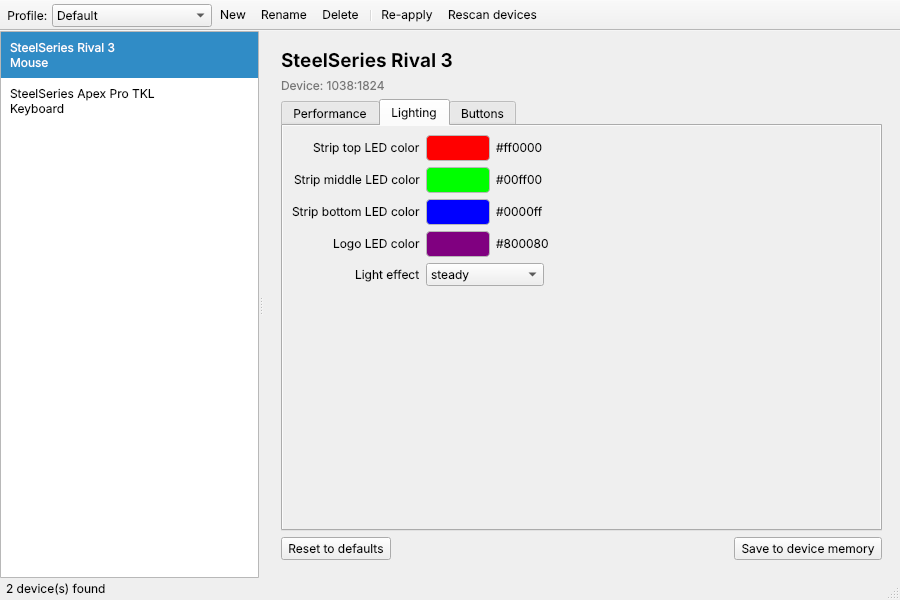
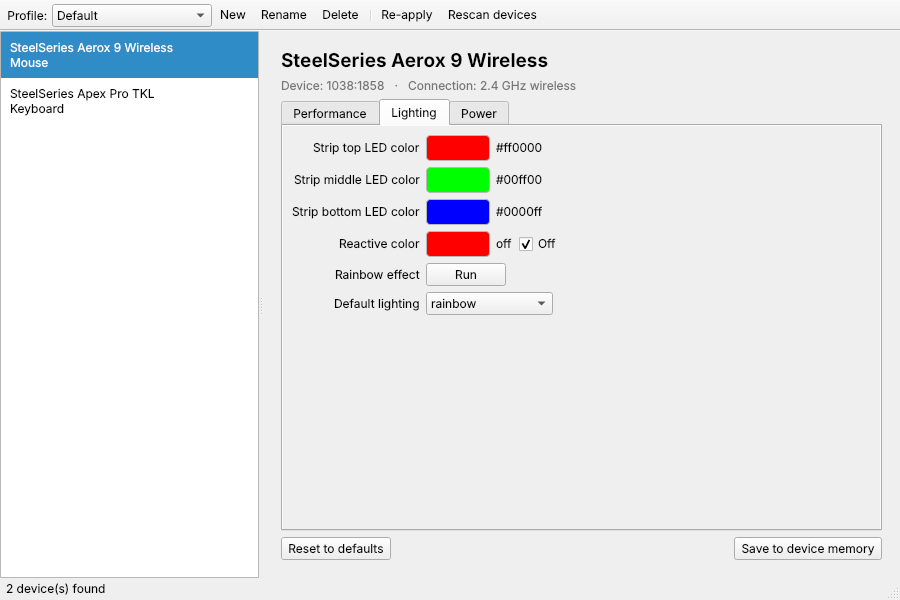
Tailor for Aerox 9 Wireless and Apex Pro Gen 3
- Treat a wireless mouse's cable and dongle connections as one device
  (shared profile values, cable preferred when both are present)
- Show connection mode; refresh battery level every minute
- New Power tab for sleep/dim timers, with units and 'Never' for 0
- Lay DPI presets out in a grid so five presets fit
- Hint that Apex Pro Gen 3 needs OpenRGB 1.0+ when no keyboard is found
- README: per-device capabilities and Fedora setup

Claude-Session: https://claude.ai/code/session_01Nd8wdY2TB8MpUgUSGngoNX

diff --git a/steelpanel/backends/rival.py b/steelpanel/backends/rival.py
@@ -33,11 +33,29 @@ BUTTON_ACTIONS = [
 
 _LIGHTING_HINTS = ("color", "light", "led", "rainbow", "reactive", "gradient")
 _PERFORMANCE_HINTS = ("sensitivity", "dpi", "polling", "angle", "lift", "acceleration")
+_POWER_HINTS = ("sleep", "dim", "timer", "battery")
+# rivalcfg puts units in descriptions, e.g. "... (minutes, 0 = disable)".
+_UNITS = {"minutes": "min", "seconds": "s", "ms": "ms", "Hz": "Hz", "%": "%"}
+
+# Wireless mice have one rivalcfg profile per connection, e.g.
+# "SteelSeries Aerox 9 Wireless (wired mode)" and "... (2.4 GHz wireless mode)".
+_MODE_SUFFIX = re.compile(r"\s*\(([^()]*\bmode)\)\s*$")
+
+
+def split_connection(model_name: str) -> tuple[str, str | None]:
+    """Split a rivalcfg model name into (device name, connection mode)."""
+    m = _MODE_SUFFIX.search(model_name)
+    if not m:
+        return model_name, None
+    mode = m.group(1).replace("\xa0", " ")
+    return model_name[: m.start()], mode[: -len(" mode")].strip()
 
 
 def _group_for(key: str) -> str:
     if key == "buttons_mapping":
         return model.MAPPING
+    if any(h in key for h in _POWER_HINTS):
+        return model.POWER
     if any(h in key for h in _LIGHTING_HINTS):
         return model.LIGHTING
     if any(h in key for h in _PERFORMANCE_HINTS):
@@ -110,7 +128,13 @@ def settings_from_profile(profile: dict) -> list[Setting]:
             s = Setting(kind=model.CHOICE, choices=list(info["choices"].keys()), **common)
         elif vt in ("range", "range_choice"):
             lo, hi, step = info["input_range"]
-            s = Setting(kind=model.RANGE, minimum=lo, maximum=hi, step=step, **common)
+            desc = common["description"]
+            unit = next((u for word, u in _UNITS.items() if f"({word}" in desc), "")
+            s = Setting(
+                kind=model.RANGE, minimum=lo, maximum=hi, step=step, unit=unit,
+                minimum_label="Never" if lo == 0 and "0 = disable" in desc else "",
+                **common,
+            )
         elif vt in ("multidpi_range", "multidpi_range_choice", "multidpi_range_choice_xy"):
             lo, hi, step = info["input_range"]
             default = info.get("default")
@@ -141,8 +165,10 @@ class RivalMouse(Device):
 
     def __init__(self, mouse):
         self._mouse = mouse
-        self.name = mouse.name
-        self.id = f"mouse:{mouse.vendor_id:04x}:{mouse.product_id:04x}"
+        self.name, self.connection = split_connection(mouse.name)
+        # Keyed by name, not USB id, so a wireless mouse keeps one set of
+        # profile values whether it is used over the cable or the dongle.
+        self.id = f"mouse:{self.name}"
         self.supports_onboard_save = "save_command" in mouse.mouse_profile
         self._settings = settings_from_profile(mouse.mouse_profile)
         self._by_key = {s.key: s for s in self._settings}
@@ -169,6 +195,8 @@ class RivalMouse(Device):
 
     def info(self) -> dict[str, str]:
         lines = {"Device": f"{self._mouse.vendor_id:04x}:{self._mouse.product_id:04x}"}
+        if self.connection:
+            lines["Connection"] = self.connection
         try:
             fw = self._mouse.firmware_version
             if fw and fw.strip("0.") != "":  # all-zero means unknown
@@ -199,12 +227,22 @@ class RivalBackend(Backend):
         if rivalcfg is None:
             result.problems.append("rivalcfg is not installed: mouse support disabled.")
             return result
-        seen = set()
+        plugged = {}
         for dev in rival_devices.list_plugged_devices():
-            ids = (dev["vendor_id"], dev["product_id"])
-            if ids in seen:
+            plugged.setdefault((dev["vendor_id"], dev["product_id"]), dev)
+        # With the cable plugged in, a wireless mouse shows up both through its
+        # cable and its dongle: keep the cable, which is the more reliable link.
+        def wired_first(ids):
+            _, conn = split_connection(rival_devices.get_profile(*ids)["name"])
+            return 0 if conn in (None, "wired") else 1
+
+        seen_names = set()
+        for ids in sorted(plugged, key=wired_first):
+            dev = plugged[ids]
+            name, _ = split_connection(rival_devices.get_profile(*ids)["name"])
+            if name in seen_names:
                 continue
-            seen.add(ids)
+            seen_names.add(name)
             try:
                 result.devices.append(RivalMouse(get_mouse(*ids)))
             except (IOError, OSError) as exc:

diff --git a/steelpanel/gui/widgets.py b/steelpanel/gui/widgets.py
@@ -8,7 +8,7 @@ from typing import Any
 from PySide6.QtCore import Qt, QTimer, Signal
 from PySide6.QtGui import QColor
 from PySide6.QtWidgets import (
-    QCheckBox, QColorDialog, QComboBox, QFormLayout, QHBoxLayout, QLabel,
+    QCheckBox, QColorDialog, QComboBox, QFormLayout, QGridLayout, QHBoxLayout, QLabel,
     QPushButton, QSlider, QSpinBox, QToolButton, QVBoxLayout, QWidget,
 )
 
@@ -80,7 +80,11 @@ class RangeEditor(SettingEditor):
         steps = max(1, (spec.maximum - spec.minimum) // spec.step)
         self.slider = QSlider(Qt.Horizontal, minimum=0, maximum=steps)
         self.spin = QSpinBox(minimum=spec.minimum, maximum=spec.maximum, singleStep=spec.step)
-        self.spin.setMinimumWidth(80)
+        if spec.unit:
+            self.spin.setSuffix(f" {spec.unit}")
+        if spec.minimum_label:
+            self.spin.setSpecialValueText(spec.minimum_label)
+        self.spin.setMinimumWidth(90)
         self._timer = self._debounced()
         self.slider.valueChanged.connect(
             lambda i: self.spin.setValue(spec.minimum + i * spec.step))
@@ -157,28 +161,38 @@ class ColorEditor(SettingEditor):
 
 
 class DpiEditor(SettingEditor):
-    """Editable list of DPI presets (1..max_presets)."""
+    """Editable list of DPI presets (1..max_presets), laid out in a grid so
+    five presets still fit a narrow window."""
+
+    COLUMNS = 3
 
     def __init__(self, spec, parent=None):
         super().__init__(spec, parent)
-        self.row = QHBoxLayout(self)
-        self.row.setContentsMargins(0, 0, 0, 0)
+        outer = QVBoxLayout(self)
+        outer.setContentsMargins(0, 0, 0, 0)
+        self.grid = QGridLayout()
+        self.grid.setHorizontalSpacing(8)
+        outer.addLayout(self.grid)
         self.spins: list[QSpinBox] = []
         self._timer = self._debounced()
-        self.add_btn = QToolButton(text="+", toolTip="Add a DPI preset")
-        self.del_btn = QToolButton(text="−", toolTip="Remove the last DPI preset")
+        buttons = QHBoxLayout()
+        self.add_btn = QToolButton(text="+ Add preset", toolTip="Add a DPI preset")
+        self.del_btn = QToolButton(text="− Remove", toolTip="Remove the last DPI preset")
         self.add_btn.clicked.connect(lambda: self._add(self.spins[-1].value() if self.spins else 800, emit=True))
         self.del_btn.clicked.connect(self._remove)
-        self.row.addWidget(self.del_btn)
-        self.row.addWidget(self.add_btn)
-        self.row.addStretch()
+        buttons.addWidget(self.add_btn)
+        buttons.addWidget(self.del_btn)
+        buttons.addStretch()
+        outer.addLayout(buttons)
 
     def _add(self, dpi: int, emit=False):
         spin = QSpinBox(minimum=self.spec.minimum, maximum=self.spec.maximum,
                         singleStep=self.spec.step, suffix=" dpi")
+        spin.setMinimumWidth(100)
         spin.setValue(int(dpi))
         spin.valueChanged.connect(lambda *_: None if self._loading else self._timer.start())
-        self.row.insertWidget(len(self.spins), spin)
+        i = len(self.spins)
+        self.grid.addWidget(spin, i // self.COLUMNS, i % self.COLUMNS)
         self.spins.append(spin)
         self._update_buttons()
         if emit:
@@ -186,7 +200,9 @@ class DpiEditor(SettingEditor):
 
     def _remove(self):
         if len(self.spins) > 1:
-            self.spins.pop().deleteLater()
+            spin = self.spins.pop()
+            self.grid.removeWidget(spin)
+            spin.deleteLater()
             self._update_buttons()
             self._emit()
 
@@ -202,7 +218,9 @@ class DpiEditor(SettingEditor):
             value = [value]
         value = list(value or [800])[: self.spec.max_presets]
         while self.spins:
-            self.spins.pop().deleteLater()
+            spin = self.spins.pop()
+            self.grid.removeWidget(spin)
+            spin.deleteLater()
         for dpi in value:
             self._add(dpi)
 

diff --git a/tests/test_rival.py b/tests/test_rival.py
@@ -4,7 +4,8 @@ from rivalcfg.mouse import get_mouse
 
 from steelpanel import model
 from steelpanel.backends.rival import (
-    RivalBackend, RivalMouse, format_buttons, parse_buttons, settings_from_profile, to_hex,
+    RivalBackend, RivalMouse, format_buttons, parse_buttons, settings_from_profile,
+    split_connection, to_hex,
 )
 
 ALL_PROFILES = sorted({(p["vendor_id"], p["product_id"]) for p in rival_devices.PROFILES.values()})
@@ -69,6 +70,50 @@ def test_buttons_roundtrip():
 def test_discovery_with_simulated_mouse(monkeypatch):
     monkeypatch.setenv("RIVALCFG_PROFILE", "1038:1824")
     found = RivalBackend().discover()
-    assert [d.id for d in found.devices] == ["mouse:1038:1824"]
+    assert [d.id for d in found.devices] == ["mouse:SteelSeries Rival 3"]
     assert found.devices[0].supports_onboard_save
     found.devices[0].save_onboard()
+
+
+AEROX9_WIRED, AEROX9_DONGLE = (0x1038, 0x185A), (0x1038, 0x1858)
+
+
+def test_connection_suffix_is_split():
+    assert split_connection("SteelSeries Aerox 9 Wireless (wired mode)") == (
+        "SteelSeries Aerox 9 Wireless", "wired")
+    assert split_connection("SteelSeries Aerox 9 Wireless (2.4\xa0GHz wireless mode)") == (
+        "SteelSeries Aerox 9 Wireless", "2.4 GHz wireless")
+    assert split_connection("SteelSeries Rival 3 (firmware v0.37.0.0)")[1] is None
+
+
+def test_aerox9_same_identity_over_cable_and_dongle():
+    wired, dongle = RivalMouse(get_mouse(*AEROX9_WIRED)), RivalMouse(get_mouse(*AEROX9_DONGLE))
+    assert wired.id == dongle.id == "mouse:SteelSeries Aerox 9 Wireless"
+    assert wired.name == "SteelSeries Aerox 9 Wireless"
+    assert dongle.info()["Connection"] == "2.4 GHz wireless"
+    assert wired.supports_onboard_save and dongle.supports_onboard_save
+
+
+def test_aerox9_settings_layout():
+    specs = {s.key: s for s in RivalMouse(get_mouse(*AEROX9_DONGLE)).settings()}
+    assert specs["sensitivity"].maximum == 18000 and specs["sensitivity"].max_presets == 5
+    assert specs["sensitivity"].default == [400, 800, 1200, 2400, 3200]
+    assert specs["sleep_timer"].group == specs["dim_timer"].group == model.POWER
+    assert "buttons_mapping" not in specs  # rivalcfg has no remapping for the Aerox 9
+
+
+def test_aerox9_listed_once_preferring_cable(monkeypatch):
+    plugged = [
+        {"vendor_id": v, "product_id": p, "name": "SteelSeries Aerox 9 Wireless"}
+        for v, p in (AEROX9_DONGLE, AEROX9_WIRED)
+    ]
+    monkeypatch.setattr(rival_devices, "list_plugged_devices", lambda: iter(plugged))
+    found = RivalBackend().discover()
+    assert len(found.devices) == 1
+    assert found.devices[0].connection == "wired"
+
+
+def test_timer_units():
+    specs = {s.key: s for s in RivalMouse(get_mouse(*AEROX9_WIRED)).settings()}
+    assert (specs["sleep_timer"].unit, specs["sleep_timer"].minimum_label) == ("min", "Never")
+    assert specs["dim_timer"].unit == "s"

diff --git a/steelpanel/gui/main_window.py b/steelpanel/gui/main_window.py
@@ -2,7 +2,7 @@ from __future__ import annotations
 
 from typing import Any
 
-from PySide6.QtCore import Qt
+from PySide6.QtCore import Qt, QTimer
 from PySide6.QtGui import QAction, QActionGroup, QColor, QFont, QIcon, QPainter, QPixmap
 from PySide6.QtWidgets import (
     QApplication, QComboBox, QFormLayout, QFrame, QHBoxLayout, QInputDialog, QLabel,
@@ -17,7 +17,8 @@ from ..model import Backend, Device
 from ..profiles import ProfileStore, apply_profile
 from .widgets import SettingEditor, make_editor
 
-GROUP_ORDER = [model.PERFORMANCE, model.LIGHTING, model.MAPPING, model.GENERAL]
+GROUP_ORDER = [model.PERFORMANCE, model.LIGHTING, model.MAPPING, model.POWER, model.GENERAL]
+INFO_REFRESH_MS = 60_000  # battery level of wireless devices
 ACCENT = "#ff5200"
 
 
@@ -52,11 +53,12 @@ class DevicePanel(QWidget):
         f.setBold(True)
         title.setFont(f)
         lay.addWidget(title)
-        info = device.info()
-        if info:
-            info_label = QLabel("   ·   ".join(f"{k}: {v}" for k, v in info.items()))
-            info_label.setStyleSheet("color: palette(placeholder-text);")
-            lay.addWidget(info_label)
+        self.info_label = QLabel()
+        self.info_label.setStyleSheet("color: palette(placeholder-text);")
+        lay.addWidget(self.info_label)
+        self.refresh_info()
+        self._info_timer = QTimer(self, interval=INFO_REFRESH_MS, timeout=self.refresh_info)
+        self._info_timer.start()
 
         tabs = QTabWidget()
         values = window.store.device_values(window.store.active, device.id)
@@ -90,6 +92,11 @@ class DevicePanel(QWidget):
             save.clicked.connect(lambda: window.save_onboard(device))
             row.addWidget(save)
         lay.addLayout(row)
+
+    def refresh_info(self) -> None:
+        info = self.device.info()
+        self.info_label.setText("   ·   ".join(f"{k}: {v}" for k, v in info.items()))
+        self.info_label.setVisible(bool(info))
 
 
 class MainWindow(QMainWindow):

diff --git a/steelpanel/model.py b/steelpanel/model.py
@@ -23,6 +23,7 @@ ACTION = "action"    # no value, just triggers a command
 PERFORMANCE = "Performance"
 LIGHTING = "Lighting"
 MAPPING = "Buttons"
+POWER = "Power"
 GENERAL = "General"
 
 
@@ -41,6 +42,10 @@ class Setting:
     max_presets: int = 1
     allow_off: bool = False
     buttons: list[str] = field(default_factory=list)
+    #: Shown after numeric values, e.g. "min".
+    unit: str = ""
+    #: Text shown instead of the minimum value, e.g. "Never" for a 0 timer.
+    minimum_label: str = ""
 
 
 class Device(ABC):

diff --git a/steelpanel/backends/openrgb.py b/steelpanel/backends/openrgb.py
@@ -171,4 +171,9 @@ class OpenRGBBackend(Backend):
             if dev.type == DeviceType.MOUSE or not is_steelseries(dev):
                 continue
             result.devices.append(OpenRGBDevice(dev))
+        if not result.devices:
+            result.problems.append(
+                "OpenRGB is running but found no SteelSeries keyboard. Newer models "
+                "(e.g. Apex Pro Gen 3) need OpenRGB 1.0 or later and its udev rules."
+            )
         return result

diff --git a/tests/test_openrgb.py b/tests/test_openrgb.py
@@ -69,3 +69,9 @@ def test_rediscovery_reuses_client():
     b.discover()
     b.discover()
     assert client.updates == 1
+
+
+def test_hint_when_server_has_no_steelseries_keyboard():
+    b, _ = backend_with(FakeDevice("Corsair K70", vendor="Corsair"))
+    found = b.discover()
+    assert found.devices == [] and "OpenRGB 1.0" in found.problems[0]

diff --git a/README.md b/README.md
@@ -6,9 +6,9 @@ the system tray.
 
 ![Mouse settings](docs/mouse.png)
 
-| Lighting | Button mapping | Keyboard |
+| Lighting | Power | Keyboard |
 |---|---|---|
-| ![](docs/mouse-lighting.png) | ![](docs/mouse-buttons.png) | ![](docs/keyboard.png) |
+| ![](docs/mouse-lighting.png) | ![](docs/mouse-power.png) | ![](docs/keyboard.png) |
 
 ## How it works
 
@@ -23,6 +23,21 @@ SteelPanel builds on two open-source projects that reverse-engineered them:
 The GUI is generated from each device's capability description, so any mouse
 that rivalcfg supports gets the right controls automatically.
 
+## Tested target: Aerox 9 Wireless + Apex Pro Gen 3 on Fedora KDE
+
+**Aerox 9 Wireless:** works over the USB cable and the 2.4 GHz dongle
+(not Bluetooth). Both connections share one set of profile settings, and
+when both are present the cable is used.
+
+| Available | Not available on Linux |
+|---|---|
+| 5 DPI presets (100–18000), polling rate, 3 RGB zones, reactive (click) color, rainbow effect, startup lighting, sleep and dim timers, battery level, save to onboard memory | Button remapping (rivalcfg doesn't support it for this mouse), Bluetooth mode |
+
+**Apex Pro Gen 3:** lighting only, through OpenRGB, which recognises this
+keyboard from **version 1.0** (September 2026). Older OpenRGB versions won't
+list it. Check with `openrgb --version`. Actuation points, rapid trigger and
+the OLED screen are only configurable in SteelSeries GG.
+
 ## Install
 
 ```bash
@@ -31,9 +46,8 @@ python3 -m venv ~/.local/share/steelpanel-venv
 ln -s ~/.local/share/steelpanel-venv/bin/steelpanel ~/.local/bin/steelpanel
 ```
 
-Arch/Fedora/Debian users may need the Qt runtime libraries
-(`libegl1 libxkbcommon0 libfontconfig1`); they're already present on any
-normal desktop install.
+On Fedora KDE everything needed is already installed (Python 3 and the Qt
+libraries). The app follows your Plasma theme and shows up in the system tray.
 
 ### Mice: allow access without root
 
@@ -45,8 +59,11 @@ Then unplug and replug the mouse.
 
 ### Keyboards: run OpenRGB's server
 
-1. Install OpenRGB from your distro or [openrgb.org](https://openrgb.org), including its
-   udev rules (`60-openrgb.rules`, shipped with the distro packages).
+1. Install OpenRGB **1.0 or newer**: `sudo dnf install openrgb`, or a
+   newer build from [openrgb.org](https://openrgb.org) if the Fedora package is
+   older than 1.0. Builds that don't come from the Fedora package don't install
+   udev rules, so also install `60-openrgb.rules` from openrgb.org into
+   `/etc/udev/rules.d/`, then run `sudo udevadm control --reload-rules && sudo udevadm trigger`.
 2. Start the SDK server: `openrgb --server` (or enable "Start server" in
    OpenRGB's settings and have it autostart).
 
